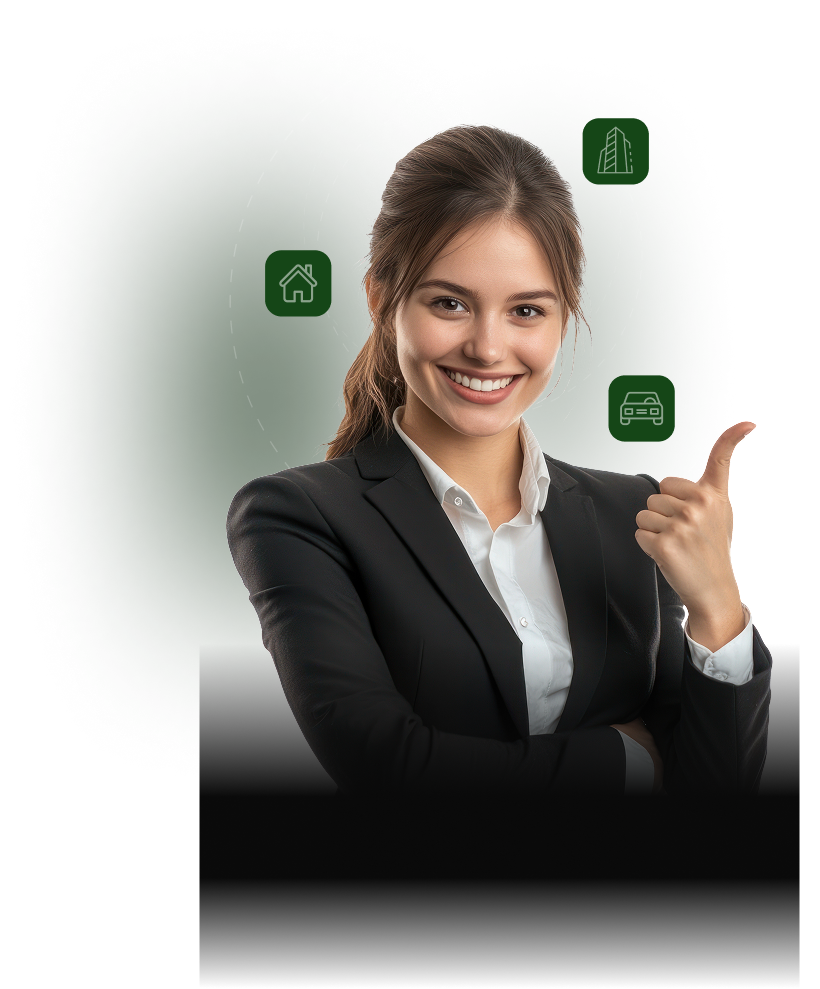
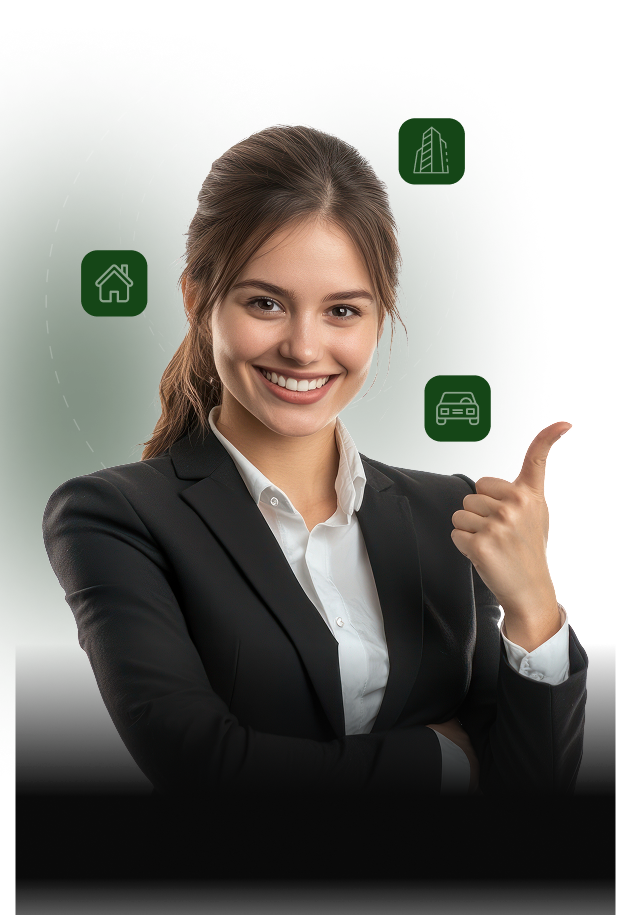
design issue fixing

diff --git a/app/components/Footer.jsx b/app/components/Footer.jsx
@@ -1,13 +1,15 @@
 "use client";
-import { memo } from 'react';
+import { memo, useState } from 'react';
 import Image from "next/image";
 import Link from "next/link";
 
 const Footer = ({copyRight}) => {
+    const [isQuickLinksOpen, setIsQuickLinksOpen] = useState(false);
+    const [isLegalOpen, setIsLegalOpen] = useState(false);
 
     return (
-        <footer className='bg-[#154617] pt-[60px] px-4 md:px-6 lg:px-8'>
-            <div className="max-w-[1440px] mx-auto flex flex-col md:flex-row items-start justify-between gap-10 md:gap-8">
+        <footer className='bg-[#154617] pt-[40px] px-4 md:px-6 lg:px-8'>
+            <div className="max-w-[1440px] mx-auto flex flex-col md:flex-row items-start justify-between gap-6 md:gap-8">
                 <div className='logo-content w-full md:w-auto'>
                     <div className="logo">
                         <a href="/" title="logo" className="inline-block">
@@ -27,27 +29,50 @@ const Footer = ({copyRight}) => {
                     
                     {/* Social Icons with hover effects */}
                     <div className="social-icons flex flex-wrap gap-4 mt-8">
+                        {/* Facebook Icon */}
+                        <Link
+                            href="#"
+                            className="group border border-[#417703] hover:bg-[#b4fe5d] p-2.5 rounded-3xl transition-colors duration-300"
+                        >
+                            <svg
+                                width={20}
+                                height={20}
+                                viewBox="0 0 24 24"
+                                fill="none"
+                                xmlns="http://www.w3.org/2000/svg"
+                            >
+                                <path
+                                    d="M14.5 4H16.5C17.0523 4 17.5 3.55228 17.5 3V2C17.5 1.44772 17.0523 1 16.5 1H14C10.9624 1 8.5 3.46243 8.5 6.5V9H7C6.44772 9 6 9.44772 6 10V12C6 12.5523 6.44772 13 7 13H8.5V21C8.5 21.5523 8.94772 22 9.5 22H12.5C13.0523 22 13.5 21.5523 13.5 21V13H15.5C16.0523 13 16.5 12.5523 16.5 12V10C16.5 9.44772 16.0523 9 15.5 9H13.5V6.5C13.5 5.67157 14.1716 5 15 5H14.5Z"
+                                    stroke="white"
+                                    strokeOpacity="0.6"
+                                    strokeWidth="1.6"
+                                    strokeLinecap="round"
+                                    strokeLinejoin="round"
+                                    className="group-hover:stroke-black transition-all duration-300"
+                                />
+                            </svg>
+                        </Link>
+
                         {/* Twitter/X Icon */}
                         <Link 
                             href="#" 
                             className="group border border-[#417703] hover:bg-[#b4fe5d] p-2.5 rounded-3xl transition-colors duration-300"
                         >
-                            <svg 
-                                width={20} 
-                                height={20} 
-                                viewBox="0 0 24 24" 
-                                fill="none" 
-                                xmlns="http://www.w3.org/2000/svg"
+                          <svg
+                            xmlns="http://www.w3.org/2000/svg"
+                            viewBox="0 0 24 24"
+                            width={20}
+                            height={20}
+                            fill="none"
                             >
-                                <path 
-                                    d="M21.7018 3.94572C21.7018 3.94572 21.0113 6.01722 19.7289 7.29958C21.3072 17.1639 10.4564 24.3648 1.97314 18.7422C4.14329 18.8408 6.31344 18.1503 7.89173 16.7693C2.95957 15.2897 0.493499 9.46973 2.95957 4.93215C5.12972 7.49687 8.48358 8.97651 11.8374 8.87787C10.9497 4.73486 15.7832 2.36743 18.7425 5.12943C19.8275 5.12943 21.7018 3.94572 21.7018 3.94572Z" 
-                                    stroke="white" 
-                                    strokeOpacity="0.6" 
-                                    strokeWidth="1.97286" 
-                                    strokeLinecap="round" 
-                                    strokeLinejoin="round"
-                                    className="group-hover:stroke-black transition-all duration-300"
-                                />
+                            <path d="M18.244 2H21.5l-7.45 8.52L23 22h-6.828l-5.35-6.993L4.95 22H1.693l7.97-9.11L1 2h6.996l4.837 6.365L18.244 2zM17.05 20h1.904L7.032 4H5.03l12.02 16z"
+                            stroke="white"
+                            strokeOpacity="0.6"
+                            strokeWidth="1.6"
+                            strokeLinecap="round"
+                            strokeLinejoin="round"
+                            className="group-hover:stroke-black transition-all duration-300"
+                            />
                             </svg>
                         </Link>
 
@@ -171,10 +196,30 @@ const Footer = ({copyRight}) => {
                 </div>
                 
                 <div className='quick-links w-full md:w-auto'>
-                    <div className='heading'>
+                    <button
+                        type="button"
+                        className="heading w-full flex items-center justify-between md:block cursor-pointer"
+                        onClick={() => setIsQuickLinksOpen((prev) => !prev)}
+                    >
                         <h3 className='text-white font-bold text-[18px] md:text-[20px] pb-[12px]'>Quick Links</h3>
-                    </div>
-                    <div className='menu-links flex-col flex gap-2 md:gap-3'>
+                        <span className="md:hidden text-white">
+                            <svg
+                                className={`w-5 h-5 transform transition-transform duration-300 ${isQuickLinksOpen ? 'rotate-180' : 'rotate-0'}`}
+                                viewBox="0 0 24 24"
+                                fill="none"
+                                xmlns="http://www.w3.org/2000/svg"
+                            >
+                                <path
+                                    d="M6 9L12 15L18 9"
+                                    stroke="currentColor"
+                                    strokeWidth="1.8"
+                                    strokeLinecap="round"
+                                    strokeLinejoin="round"
+                                />
+                            </svg>
+                        </span>
+                    </button>
+                    <div className={`menu-links flex-col gap-2 md:gap-3 ${isQuickLinksOpen ? 'flex' : 'hidden'} md:flex`}>
                         <Link href="/how-it-works" className="text-[#e9e9e9e3] text-[14px] hover:text-[#B5FF5F] hover:underline transition-colors duration-300">
                             How It Works
                         </Link>
@@ -188,10 +233,30 @@ const Footer = ({copyRight}) => {
                 </div>
                 
                 <div className='quick-links w-full md:w-auto'>
-                    <div className='heading'>
+                    <button
+                        type="button"
+                        className="heading w-full flex items-center justify-between cursor-pointer"
+                        onClick={() => setIsLegalOpen((prev) => !prev)}
+                    >
                         <h3 className='text-white font-bold text-[18px] md:text-[20px] pb-[12px]'>Legal</h3>
-                    </div>
-                    <div className='menu-links flex-col flex gap-2 md:gap-3'>
+                        <span className="md:hidden text-white">
+                            <svg
+                                className={`w-5 h-5 transform transition-transform duration-300 ${isLegalOpen ? 'rotate-180' : 'rotate-0'}`}
+                                viewBox="0 0 24 24"
+                                fill="none"
+                                xmlns="http://www.w3.org/2000/svg"
+                            >
+                                <path
+                                    d="M6 9L12 15L18 9"
+                                    stroke="currentColor"
+                                    strokeWidth="1.8"
+                                    strokeLinecap="round"
+                                    strokeLinejoin="round"
+                                />
+                            </svg>
+                        </span>
+                    </button>
+                    <div className={`menu-links flex-col gap-2 md:gap-3 ${isLegalOpen ? 'flex' : 'hidden'} md:flex`}>
                         <Link href="/privacy-policy" className="text-[#e9e9e9e3] text-[14px] hover:text-[#B5FF5F] hover:underline transition-colors duration-300">
                             Privacy Policy
                         </Link>

diff --git a/app/components/HomePageCom/Hero.jsx b/app/components/HomePageCom/Hero.jsx
@@ -46,7 +46,7 @@ const Hero = ({ subheading, heading, description, badge, apply, checkEligibility
             <div className="absolute top-0 left-0 w-full h-full bg-[#000]/40 z-10"></div>
             
             {/* Content with higher z-index */}
-            <div className='relative z-20 max-w-[1440px] mx-auto px-4 sm:px-6 md:px-10 w-full'>
+            <div className='relative z-20 max-w-[1440px] mx-auto w-full'>
                 <div className='banner-wrapper flex flex-col md:flex-row items-center justify-between gap-6 md:gap-8 py-8 md:py-12 lg:py-16'>
                     {/* Content Section - Full width on mobile, half on desktop */}
                     <div className='content text-center md:text-left w-full md:w-1/2 order-2 md:order-1'>
@@ -92,13 +92,13 @@ const Hero = ({ subheading, heading, description, badge, apply, checkEligibility
                              className='banner-button flex flex-col sm:flex-row justify-center md:justify-start gap-3 sm:gap-4 md:gap-[20px] mt-6 sm:mt-8 md:mt-[50px] px-4 sm:px-0'>
                             
                             {/* Apply Button - Full width on mobile, auto on larger */}
-                            <button className='cursor-pointer bg-[#B5FF5F] flex items-center justify-center gap-[10px] text-[#154617] px-4 sm:px-6 py-2.5 sm:py-3 rounded-full font-bold hover:bg-white transition-colors duration-300 text-sm sm:text-base w-full sm:w-auto shadow-[0_8px_20px_rgba(181,255,95,0.3)] hover:shadow-[0_8px_25px_rgba(181,255,95,0.5)]'>
-                                {apply} {arrowSvg}
+                            <button className='cursor-pointer bg-[#B5FF5F] flex items-center justify-center gap-[10px] text-[#154617] px-4 sm:px-6 py-2.5 sm:py-3   rounded-full font-bold hover:bg-white transition-colors duration-300 text-sm sm:text-base w-full sm:w-auto shadow-[0_8px_20px_rgba(181,255,95,0.3)] hover:shadow-[0_8px_25px_rgba(181,255,95,0.5)]'>
+                               <span  style={{position: 'relative', top: '-3px'}}>{apply}</span> {arrowSvg}
                             </button>
                             
                             {/* Check Eligibility Button - Full width on mobile, auto on larger */}
-                            <button className='cursor-pointer bg-transparent backdrop-blur-sm border border-white/80 flex items-center justify-center gap-[10px] text-white px-4 sm:px-6 py-2.5 sm:py-3 rounded-full font-bold hover:bg-[#B5FF5F] hover:text-[#154617] hover:border-[#B5FF5F] transition-all duration-300 text-sm sm:text-base w-full sm:w-auto shadow-[0_4px_15px_rgba(0,0,0,0.2)] hover:shadow-[0_8px_20px_rgba(181,255,95,0.3)]'>
-                                {checkEligibility}
+                            <button className='cursor-pointer bg-transparent backdrop-blur-sm border border-white/80 flex items-center justify-center gap-[10px] text-white px-4 sm:px-6 py-2.5 sm:py-3   rounded-full font-bold hover:bg-[#B5FF5F] hover:text-[#154617] hover:border-[#B5FF5F] transition-all duration-300 text-sm sm:text-base w-full sm:w-auto shadow-[0_4px_15px_rgba(0,0,0,0.2)] hover:shadow-[0_8px_20px_rgba(181,255,95,0.3)]'>
+                               <span  style={{position: 'relative', top: '-3px'}}>{checkEligibility}</span>
                             </button>
                         </div>
                     </div>
@@ -106,7 +106,7 @@ const Hero = ({ subheading, heading, description, badge, apply, checkEligibility
                     {/* Image Section - Full width on mobile, half on desktop */}
                     <div className='banner-image w-full md:w-1/2 flex justify-center order-1 md:order-2 mb-4 md:mb-0'>
                         <div className="relative drop-shadow-2xl">
-                            <Image 
+                            <img 
                                 data-aos="fade-up" 
                                 data-aos-duration="500"   
                                 src="/loan-ammount.png"

diff --git a/app/components/HomePageCom/FinaceYourDream.jsx b/app/components/HomePageCom/FinaceYourDream.jsx
@@ -31,10 +31,10 @@ const FinaceYourDream = ({title , getStartBtn}) => {
     return (
        <div className='bg-gradient-to-r from-[#000000] via-[#0b110c] to-[#0b110c] px-4 sm:px-6 lg:px-8'>
             <div className='max-w-[1440px] mx-auto'>
-                <div className='finace-wrapper grid grid-cols-1 md:grid-cols-2 items-center gap-6 md:gap-4'>
+                <div className='finace-wrapper grid grid-cols-1 md:grid-cols-2 items-center gap-3 md:gap-4'>
                     {/* Image - Order changes on mobile */}
                     <div className='finace-image order-1 md:order-1 flex justify-center'>
-                        <Image
+                        <img
                             data-aos="fade-up"
                             data-aos-duration="500"
                             src="/finace-your-dream.png"
@@ -42,7 +42,7 @@ const FinaceYourDream = ({title , getStartBtn}) => {
                             width={500}
                             height={500}
                             priority
-                            className="w-full max-w-[300px] sm:max-w-[400px] md:max-w-[500px] h-auto"
+                            className="w-full max-w-[600px] sm:max-w-[400px] md:max-w-[500px] h-auto"
                         />
                     </div>
                     

diff --git a/app/components/HomePageCom/WhyTiktock.jsx b/app/components/HomePageCom/WhyTiktock.jsx
@@ -43,7 +43,7 @@ const WhyTiktock = ({ title, description }) => {
     ];
 
     return (
-        <div className='why-tiktock-section bg-gradient-to-r from-[#000000] via-[#0b110c] to-[#0b110c] py-12 md:py-[80px] px-4 sm:px-6 lg:px-8'>
+        <div className='why-tiktock-section bg-gradient-to-r from-[#000000] via-[#0b110c] to-[#0b110c] py-8 md:py-[50px] px-4 sm:px-6 lg:px-8'>
             <div className='max-w-[1440px] mx-auto'>
                 {/* Title - Responsive text sizes */}
                <h2  data-aos="fade-up"  data-aos-duration="500" className='text-3xl sm:text-4xl md:text-[45px] font-bold text-center pb-2 md:pb-4 leading-tight'>
@@ -66,7 +66,7 @@ const WhyTiktock = ({ title, description }) => {
                 </p>
                 
                 {/* Box Wrapper - Responsive grid */}
-                <div className='box-wrapper grid grid-cols-1 sm:grid-cols-2 lg:grid-cols-4 gap-4 sm:gap-5 md:gap-6 lg:gap-8 pt-8 md:pt-[40px]'>
+                <div className='box-wrapper grid grid-cols-2 sm:grid-cols-2 lg:grid-cols-4 gap-4 sm:gap-5 md:gap-6 lg:gap-8 pt-8 md:pt-[40px]'>
                     {boxData.map((box, index) => (
                         <div 
                             data-aos="fade-up" 

diff --git a/app/components/HomePageCom/HowItWork.jsx b/app/components/HomePageCom/HowItWork.jsx
@@ -54,7 +54,7 @@ const HowItWork = ({ title, description , applicationBtn }) => {
     );
 
     return (
-        <div className='how-it-work-section bg-gradient-to-r from-[#000000] via-[#0b110c] to-[#0b110c] pb-12 md:pb-[80px] px-4 sm:px-6 lg:px-8'>
+        <div className='how-it-work-section bg-gradient-to-r from-[#000000] via-[#0b110c] to-[#0b110c] pb-2 md:pb-[80px] px-4 sm:px-6 lg:px-8'>
             <div className='max-w-[1440px] mx-auto'>
                 {/* Title */}
                 <h2 data-aos="fade-up" data-aos-duration="500"

diff --git a/app/components/Header.jsx b/app/components/Header.jsx
@@ -30,7 +30,7 @@ export default function Header() {
     <header className={`p-4 md:p-4 bg-[#1d361e] shadow-sm transition-all duration-300 ${
       isScrolled ? 'fixed top-0 left-0 w-full z-50' : 'relative'
     }`}> 
-      <div className="max-w-[1440px] mx-auto px-4 sm:px-4 md:px-10 flex items-center justify-between">
+      <div className="max-w-[1440px] mx-auto flex items-center justify-between">
         {/* Logo */}
         <div className="logo">
           <a href="/" title="logo">

diff --git a/app/globals.css b/app/globals.css
@@ -93,3 +93,9 @@ body {
     font-style: normal;
     font-display: swap;
 }
+
+/* Header logo color lock */
+.logo a img {
+    filter: none !important;
+    mix-blend-mode: normal !important; 
+  }
